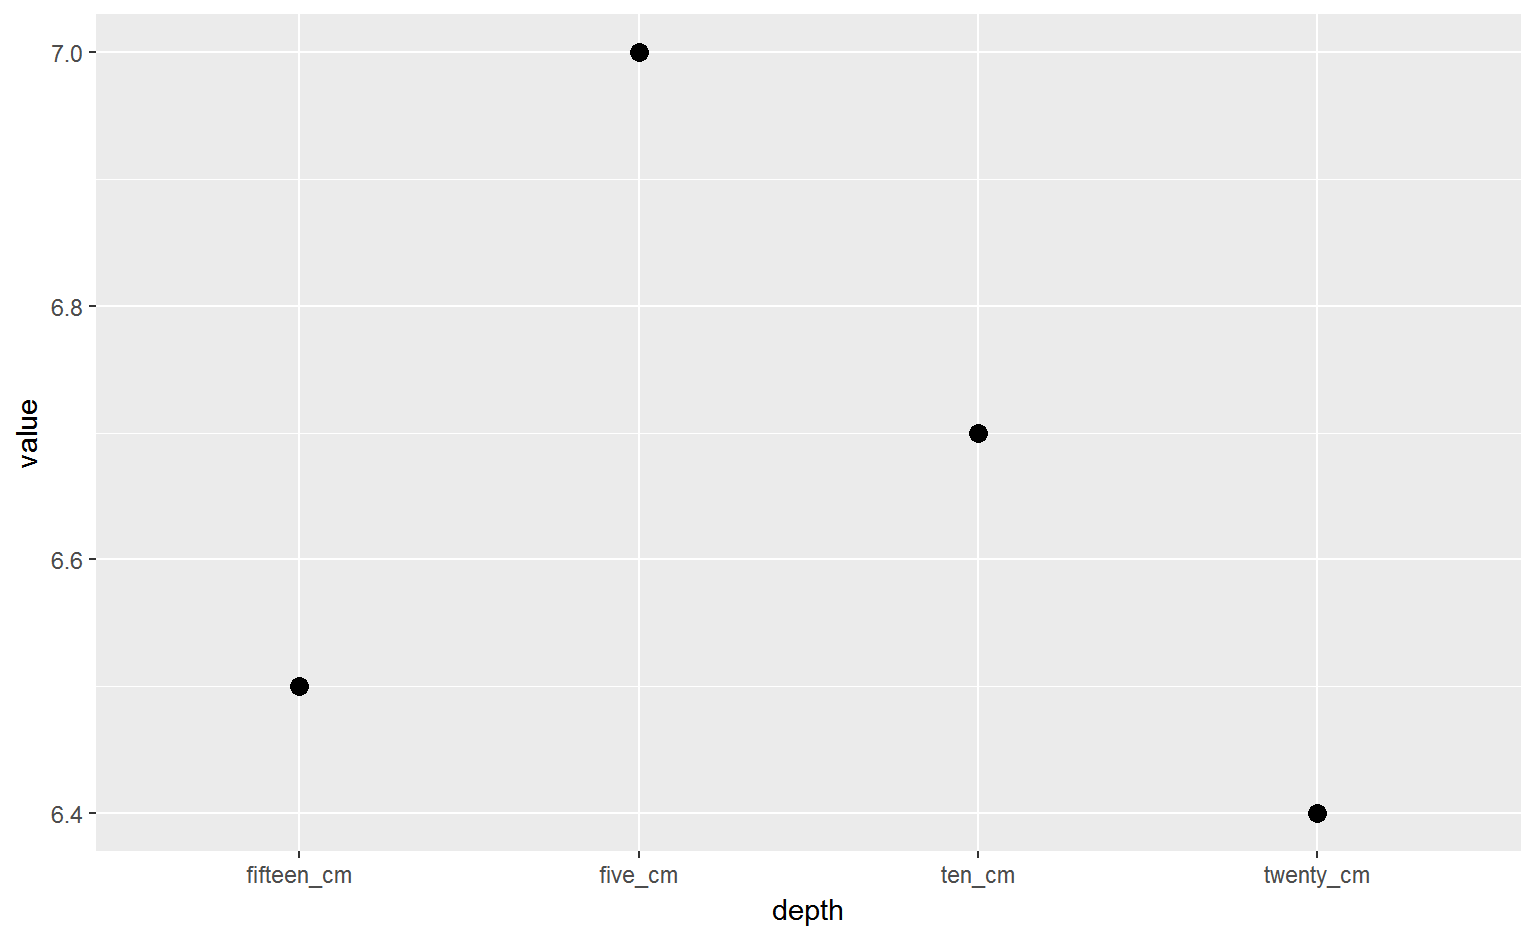
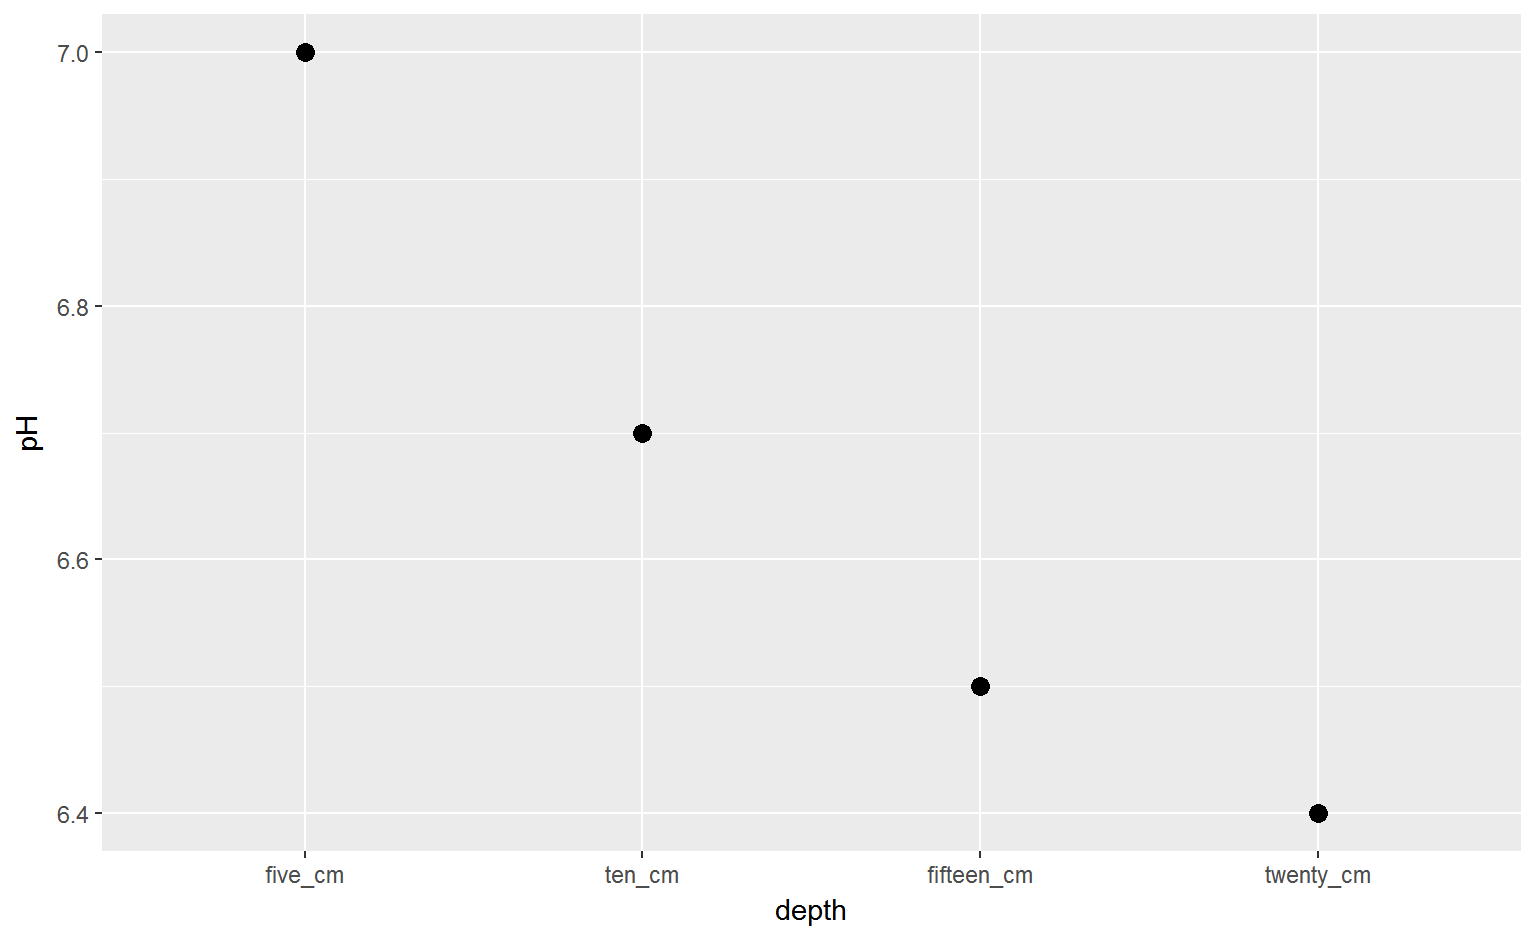
Just the logistics left to figure out

diff --git a/2017-03-10 Dietzel/slides_tidyverse.html b/2017-03-10 Dietzel/slides_tidyverse.html
@@ -66,12 +66,20 @@
   
 <section id="tidyverse" class="slide level2">
 <h2>Tidyverse</h2>
-<p>Goals The tidyverse is a place where people and their mental well-being are valued. The tidyverse is welcoming to non-programmers. The tidyverse seeks to be a utopia of data science. One of many R universes. My favorite.</p>
+<ul>
+<li>A place where people and their mental well-being are valued.<br />
+</li>
+<li>Welcoming to non-programmers.<br />
+</li>
+<li>Seeks to be a utopia of data science.<br />
+</li>
+<li>One of many R universes. My favorite.</li>
+</ul>
 </section>
-<section id="best-explained-by-creator" class="slide level2">
-<h2>Best explained by creator</h2>
-<p>Pit of success</p>
-<p><a href="https://channel9.msdn.com/Events/useR-international-R-User-conference/useR2016/Towards-a-grammar-of-interactive-graphics">Tools for tidy data</a></p>
+<section id="philosophy-best-explained-by-creator" class="slide level2">
+<h2>Philosophy best explained by creator</h2>
+<p>Hadley Wickham’s talk from UseR! 2016 <a href="https://channel9.msdn.com/Events/useR-international-R-User-conference/useR2016/Towards-a-grammar-of-interactive-graphics">Tools for tidy data</a></p>
+<p><font size="22">If someone is making a “pit of success”, you should probably walk towards it.</font></p>
 </section>
 <section id="best-way-to-learn-the-tidyverse" class="slide level2">
 <h2>Best way to learn the tidyverse</h2>
@@ -80,15 +88,28 @@
 </center>
 <p><a href="http://r4ds.had.co.nz/">A book about data science in the tidyverse</a></p>
 </section>
-<section id="what-is-it-really" class="slide level2">
-<h2>What is it really</h2>
+<section id="what-is-it" class="slide level2">
+<h2>What is it?</h2>
 <p>Collection of R packages designed to work around a <a href="https://cran.r-project.org/web/packages/tidyverse/vignettes/manifesto.html">common philosophy</a>.</p>
-<p>Model with arrows</p>
+<center>
+<img src="images/data-science-model.png" width="700px" />
+</center>
+</section>
+<section id="what-is-it-1" class="slide level2">
+<h2>What is it?</h2>
+<p>Collection of R packages designed to work around a <a href="https://cran.r-project.org/web/packages/tidyverse/vignettes/manifesto.html">common philosophy</a>.</p>
+<center>
+<img src="images/data-science-model-packages.png" width="700px" />
+</center>
 </section>
 <section id="two-tidyverse-components-covered-today" class="slide level2">
 <h2>Two tidyverse components covered today</h2>
-<p>*Tidy data</p>
-<p>*Piping</p>
+<center>
+<img src="images/tidyr.png" width="200px" />
+</center>
+<center>
+<img src="images/pipe.png" width="200px" />
+</center>
 </section>
 <section id="tidy-data" class="slide level2">
 <h2>Tidy data</h2>
@@ -110,7 +131,7 @@
 </li>
 <li>Placing variables in columns takes advantage of R’s vectorized nature<br />
 </li>
-<li><a href="http://vita.had.co.nz/papers/tidy-data.pdf">Tidy data publication</a></li>
+<li><a href="http://vita.had.co.nz/papers/tidy-data.pdf">Hadley’s tidy data publication</a></li>
 </ul>
 </section>
 <section id="very-easy-to-find-data-that-is-well-organized-but-not-tidy" class="slide level2">
@@ -188,9 +209,10 @@ tidy_soil</code></pre></div>
 <section id="section" class="slide level2">
 <h2></h2>
 <div class="sourceCode"><pre class="sourceCode r"><code class="sourceCode r"><span class="kw">filter</span>(tidy_soil, property ==<span class="st"> &quot;pH&quot;</span>)%&gt;%
-<span class="kw">ggplot</span>(<span class="kw">aes</span>(<span class="dt">x=</span>depth, <span class="dt">y=</span>value))+
-<span class="st">  </span><span class="kw">geom_point</span>(<span class="dt">size=</span><span class="dv">3</span>)</code></pre></div>
-<p><img src="slides_tidyverse_files/figure-revealjs/unnamed-chunk-6-1.png" width="768" /> Almost!</p>
+<span class="kw">ggplot</span>(<span class="kw">aes</span>(<span class="dt">x=</span><span class="kw">factor</span>(depth, <span class="dt">levels =</span> <span class="kw">c</span>(<span class="st">&quot;five_cm&quot;</span>, <span class="st">&quot;ten_cm&quot;</span>, <span class="st">&quot;fifteen_cm&quot;</span>, <span class="st">&quot;twenty_cm&quot;</span>)), <span class="dt">y=</span>value))+
+<span class="st">  </span><span class="kw">geom_point</span>(<span class="dt">size=</span><span class="dv">3</span>)+
+<span class="st">  </span><span class="kw">labs</span>(<span class="dt">x=</span><span class="st">&quot;depth&quot;</span>, <span class="dt">y=</span><span class="st">&quot;pH&quot;</span>)</code></pre></div>
+<p><img src="slides_tidyverse_files/figure-revealjs/unnamed-chunk-6-1.png" width="768" /></p>
 </section>
 <section id="see-also-spread" class="slide level2">
 <h2>See also <code>spread</code></h2>
@@ -210,43 +232,7 @@ tidy_soil</code></pre></div>
 <li>Column that contains the values is the <code>value</code> column, here they already have it as <code>Values</code></li>
 </ul>
 </section>
-<section id="our-turn" class="slide level2">
-<h2>Our turn</h2>
-<pre><code>## # A tibble: 4 × 7
-##     trt block  part   may  june  july august
-##   &lt;chr&gt; &lt;chr&gt; &lt;chr&gt; &lt;dbl&gt; &lt;dbl&gt; &lt;dbl&gt;  &lt;dbl&gt;
-## 1     0     A  leaf   5.5   7.5  12.5   12.5
-## 2   100     A  stem   5.7   6.7   7.7    7.7
-## 3   130     A fruit   0.0   2.0   8.2    8.8
-## 4   150     A  root  12.0  14.0  22.5   22.0</code></pre>
-<p>Which columns need to be incorporated?<br />
-What is the <code>key</code>?<br />
-What is the <code>value</code>?</p>
-</section>
-<section id="section-1" class="slide level2">
-<h2></h2>
-<div class="sourceCode"><pre class="sourceCode r"><code class="sourceCode r"><span class="kw">gather</span>(biomass, may, june, july, august, <span class="dt">key =</span> month, <span class="dt">value =</span> g_m2)</code></pre></div>
-<pre><code>## # A tibble: 16 × 5
-##      trt block  part  month  g_m2
-##    &lt;chr&gt; &lt;chr&gt; &lt;chr&gt;  &lt;chr&gt; &lt;dbl&gt;
-## 1      0     A  leaf    may   5.5
-## 2    100     A  stem    may   5.7
-## 3    130     A fruit    may   0.0
-## 4    150     A  root    may  12.0
-## 5      0     A  leaf   june   7.5
-## 6    100     A  stem   june   6.7
-## 7    130     A fruit   june   2.0
-## 8    150     A  root   june  14.0
-## 9      0     A  leaf   july  12.5
-## 10   100     A  stem   july   7.7
-## 11   130     A fruit   july   8.2
-## 12   150     A  root   july  22.5
-## 13     0     A  leaf august  12.5
-## 14   100     A  stem august   7.7
-## 15   130     A fruit august   8.8
-## 16   150     A  root august  22.0</code></pre>
-</section>
-<section id="section-2" class="titleslide slide level1"><h2 class="shout">%&gt;%</h2></section><section id="moves-or-pipes-the-result-forward-into-the-next-function" class="slide level2">
+<section id="section-1" class="titleslide slide level1"><h2 class="shout">%&gt;%</h2></section><section id="moves-or-pipes-the-result-forward-into-the-next-function" class="slide level2">
 <h2><code>%&gt;%</code> moves or “pipes” the result forward into the next function</h2>
 <p><code>f(x)</code> is the same as <code>x %&gt;% f()</code></p>
 <p>*assumes the first input/argument the function wants is the data set<br />
@@ -269,6 +255,46 @@ What is the <code>value</code>?</p>
 <span class="st">  </span><span class="kw">then_second</span>()%&gt;%
 <span class="st">  </span><span class="kw">and_then_third</span>()%&gt;%
 <span class="st">  </span><span class="kw">finally_last_step</span>()  </code></pre></div>
+</section><section id="corn-eras" class="slide level2">
+<h2>Corn “eras”</h2>
+<p>We read this dataframe in above as “crops”</p>
+<div class="sourceCode"><pre class="sourceCode r"><code class="sourceCode r">crops%&gt;%
+<span class="st">  </span><span class="kw">select</span>(Year, State, Commodity, <span class="st">`</span><span class="dt">Data Item</span><span class="st">`</span>, Value)%&gt;%<span class="st">   </span>
+<span class="st">  </span><span class="kw">rename</span>(<span class="dt">Data =</span> <span class="st">`</span><span class="dt">Data Item</span><span class="st">`</span>, <span class="dt">bu_acre =</span> Value)%&gt;%<span class="st">         </span>
+<span class="st">  </span><span class="kw">filter</span>(Year &gt;<span class="st"> </span><span class="dv">1866</span>, 
+         Data ==<span class="st"> &quot;CORN, GRAIN - YIELD, MEASURED IN BU / ACRE&quot;</span>)%&gt;%<span class="st"> </span>
+<span class="st">  </span><span class="kw">mutate</span>(<span class="dt">era =</span> <span class="kw">ifelse</span> ((Year %in%<span class="st"> </span><span class="kw">c</span>(<span class="dv">1867</span>:<span class="dv">1940</span>)), <span class="st">&quot;prehybrid&quot;</span>,     
+                        <span class="kw">ifelse</span>((Year %in%<span class="st"> </span><span class="kw">c</span>(<span class="dv">1941</span>:<span class="dv">1990</span>)), <span class="st">&quot;old&quot;</span>,    
+                                <span class="kw">ifelse</span> ((Year %in%<span class="st"> </span><span class="kw">c</span>(<span class="dv">1991</span>:<span class="dv">2015</span>)), 
+                                        <span class="st">&quot;new&quot;</span>, <span class="st">&quot;nope&quot;</span>))))%&gt;%
+<span class="st">  </span><span class="kw">ggplot</span>(<span class="kw">aes</span>(<span class="dt">x=</span>Year, <span class="dt">y=</span>bu_acre, <span class="dt">group=</span>era, <span class="dt">color=</span>era))+<span class="st">                    </span>
+<span class="st">  </span><span class="kw">geom_point</span>()+
+<span class="st">  </span><span class="kw">geom_smooth</span>(<span class="dt">method=</span>lm)</code></pre></div>
+</section><section id="section-2" class="slide level2">
+<h2></h2>
+<p><img src="slides_tidyverse_files/figure-revealjs/unnamed-chunk-12-1.png" width="768" /></p>
+</section><section id="shift-from-small-grains" class="slide level2">
+<h2>Shift from small grains</h2>
+<div class="sourceCode"><pre class="sourceCode r"><code class="sourceCode r">crops%&gt;%
+<span class="st">  </span><span class="kw">select</span>(Year, State, Commodity, <span class="st">`</span><span class="dt">Data Item</span><span class="st">`</span>, Value)%&gt;%
+<span class="st">  </span><span class="kw">filter</span>(Commodity %in%<span class="st"> </span><span class="kw">c</span>(<span class="st">&quot;OATS&quot;</span>, <span class="st">&quot;BARLEY&quot;</span>, <span class="st">&quot;WHEAT&quot;</span>, <span class="st">&quot;RYE&quot;</span>, <span class="st">&quot;SOYBEANS&quot;</span>) &amp;<span class="st"> </span>
+<span class="st">           `</span><span class="dt">Data Item</span><span class="st">`</span> %in%<span class="st"> </span><span class="kw">c</span>(<span class="st">&quot;OATS - ACRES HARVESTED&quot;</span>,
+                              <span class="st">&quot;BARLEY - ACRES HARVESTED&quot;</span>,
+                              <span class="st">&quot;WHEAT - ACRES HARVESTED&quot;</span>,
+                              <span class="st">&quot;RYE - ACRES HARVESTED&quot;</span>,
+                              <span class="st">&quot;SOYBEANS - ACRES HARVESTED&quot;</span>))%&gt;%
+<span class="st">  </span><span class="kw">mutate</span>(<span class="dt">size =</span> <span class="kw">ifelse</span> ((Commodity %in%<span class="st"> </span><span class="kw">c</span>(<span class="st">&quot;OATS&quot;</span>, <span class="st">&quot;BARLEY&quot;</span>, <span class="st">&quot;WHEAT&quot;</span>, <span class="st">&quot;RYE&quot;</span>)),
+                        <span class="st">&quot;small&quot;</span>,<span class="st">&quot;soybean&quot;</span>))%&gt;%
+<span class="st">  </span><span class="kw">group_by</span>(size, Year)%&gt;%
+<span class="st">  </span><span class="kw">summarise</span>(<span class="dt">total=</span><span class="kw">sum</span>(Value))%&gt;%
+<span class="st">  </span><span class="kw">ggplot</span>(<span class="kw">aes</span>(<span class="dt">x=</span>Year, <span class="dt">y=</span>total, <span class="dt">group=</span>size, <span class="dt">color=</span>size))+
+<span class="st">  </span><span class="kw">geom_point</span>()+
+<span class="st">  </span><span class="kw">geom_smooth</span>()+
+<span class="st">  </span><span class="kw">ggtitle</span>(<span class="st">&quot;Changes in small grain and soybean acres in Iowa&quot;</span>)+
+<span class="st">  </span><span class="kw">labs</span>(<span class="dt">y=</span><span class="st">&quot;Total acres harvested&quot;</span>)</code></pre></div>
+</section><section id="section-3" class="slide level2">
+<h2></h2>
+<p><img src="slides_tidyverse_files/figure-revealjs/unnamed-chunk-14-1.png" width="768" /></p>
 </section>
 
   <!--
